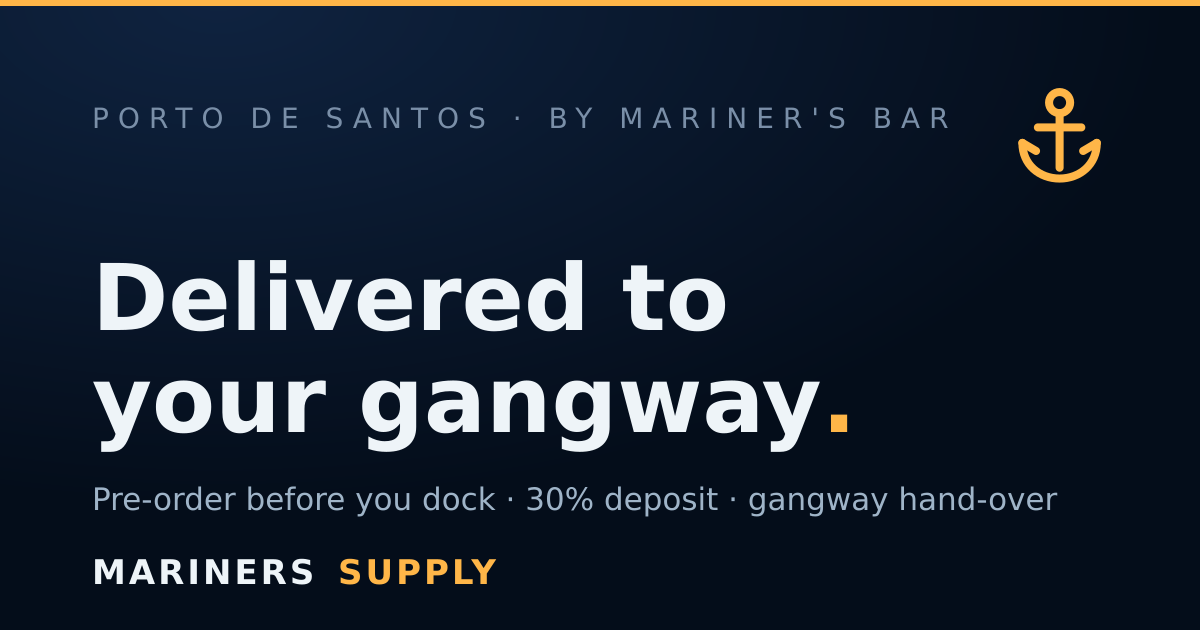
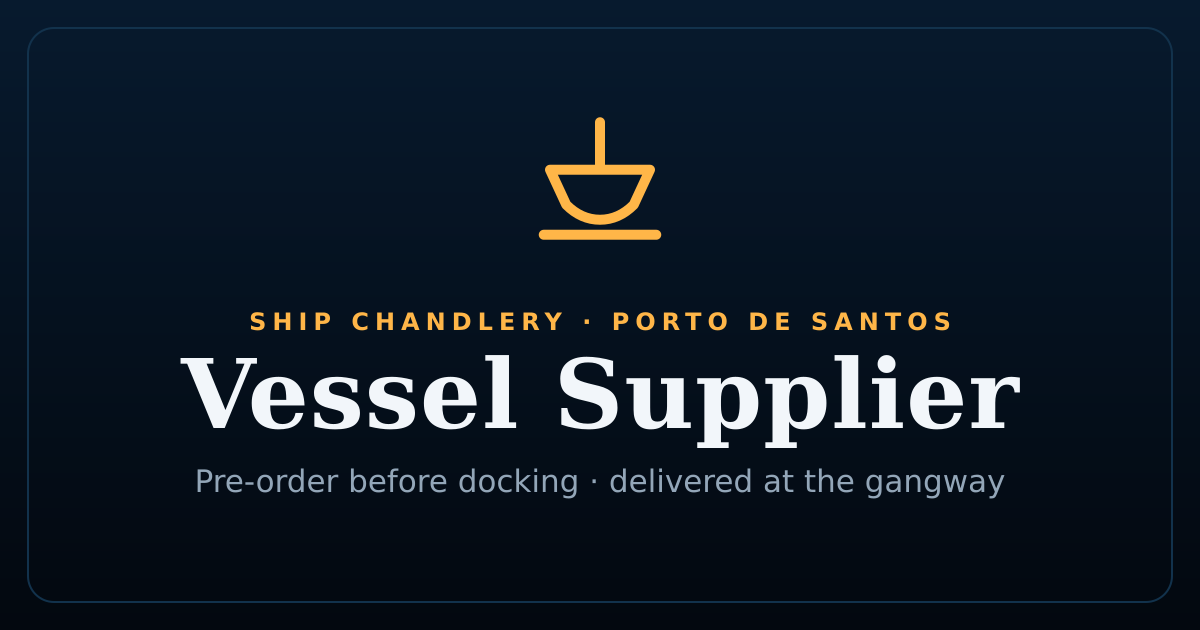
rebrand: Mariners Supply -> Vessel Supplier (marca, icone, OG, e-mails)
Renomeia a marca em toda a superficie visivel do app e troca o simbolo.

Texto/marca:
- Logo (SiteHeader/CategoryDrawer/TopBar/SiteFooter), titulo e metadata
  (layout, manifest, twitter/OG), e-mails transacionais (lib/emails), FAQ,
  termos, privacidade, portos, taxregime, templates de auth do Supabase.
- Remove todas as mencoes a "Mariner's Bar": entidade controladora/operadora
  passa a ser a propria Vessel Supplier; retirada de balcao vira "our counter
  in Santos"; taglines de rodape/e-mail perdem o "by Mariner's Bar".

Icone/visual:
- Novo simbolo da marca: vessel (mastro, casco e linha d'agua) no lugar da
  ancora, na mesma linguagem de traco e paleta navy/amber. Aplicado ao
  IconAnchor (logo on-page), favicon (app/icon.svg), apple-icon e um cartao
  OG (public/og.png) 1200x630 regerado com o nome novo.

URLs:
- NEXT_PUBLIC_SITE_URL -> https://vesselsupplier.vercel.app; metadataBase e
  URLs do README idem. Mantidos por serem infra: dominio de auth do Supabase
  (auth.marinerssupplyco.com) e o mailbox de contato (ahoy@marinerssupplyco.com).

Testes 224 (0 falhas) e next build passam.

Claude-Session: https://claude.ai/code/session_014MYs7gn3q6QqatAh2M38UT

diff --git a/prototype/estrategia-sistema.html b/prototype/estrategia-sistema.html
@@ -106,13 +106,13 @@
 <section>
   <span class="secnum">01</span>
   <h2>O sistema contentor: onde o negócio vive</h2>
-  <p>Ackoff ensina a entender qualquer coisa olhando primeiro o sistema <em>maior</em> que a contém. O Mariners Supply não vende produtos: ele ocupa uma posição vazia na malha de interações do porto — a interface entre a cidade e o tripulante. Cada ator abaixo já existe; nenhum deles faz essa ponte.</p>
+  <p>Ackoff ensina a entender qualquer coisa olhando primeiro o sistema <em>maior</em> que a contém. O Vessel Supplier não vende produtos: ele ocupa uma posição vazia na malha de interações do porto — a interface entre a cidade e o tripulante. Cada ator abaixo já existe; nenhum deles faz essa ponte.</p>
   <div class="eco">
     <div class="node"><h4>Tripulante</h4><p>Tem dólar e desejo, não tem tempo nem acesso à cidade.</p><span class="fl">→ nos dá: pedido, pagamento, boca-a-boca</span></div>
     <div class="node"><h4>Navio / Comandante</h4><p>Controla quem sobe a bordo e o que entra pela prancha.</p><span class="fl">→ nos dá: autorização de entrega</span></div>
     <div class="node"><h4>Agência marítima</h4><p>Sabe o ETA real, o berço e o line-up antes de todo mundo.</p><span class="fl">→ nos dá: informação + acesso · ← comissão</span></div>
     <div class="node"><h4>Mariner's Bar</h4><p>A comunidade. Confiança acumulada tripulação a tripulação.</p><span class="fl">→ nos dá: marca, canal, demanda</span></div>
-    <div class="node center"><h4>Mariners Supply</h4><p>A interação que falta: cidade ⇄ navio, na janela da escala, 100% formal.</p></div>
+    <div class="node center"><h4>Vessel Supplier</h4><p>A interação que falta: cidade ⇄ navio, na janela da escala, 100% formal.</p></div>
     <div class="node"><h4>Fornecedores locais</h4><p>Atacado, farmácia, eletrônica, telecom — estoque da cidade.</p><span class="fl">→ nos dão: produto, NF, prazo</span></div>
     <div class="node"><h4>Terminal / Aut. Portuária</h4><p>Controla o portão e o credenciamento ISPS.</p><span class="fl">→ nos dá: acesso físico (fase 2)</span></div>
     <div class="node"><h4>Receita Federal</h4><p>Controla a zona primária e o regime de bordo.</p><span class="fl">→ nos dá: a licença que vira barreira</span></div>

diff --git a/app/terms/page.tsx b/app/terms/page.tsx
@@ -7,7 +7,7 @@ import { DEPOSIT_PCT } from "@/lib/money";
 export const metadata: Metadata = {
   title: "Terms & Conditions",
   description:
-    "How an order with Mariners Supply works — deposit, balance at the gangway, cancellation rights and credit for a diverted call.",
+    "How an order with Vessel Supplier works — deposit, balance at the gangway, cancellation rights and credit for a diverted call.",
 };
 
 /** Data da última revisão do texto. Termo sem data é termo que ninguém
@@ -49,15 +49,15 @@ export default function TermsPage() {
 
       <h1 className="pagettl">Terms &amp; Conditions</h1>
       <p className="pagelead">
-        Last updated {LAST_UPDATED}. These terms govern orders placed on
-        marinerssupplyco.com.
+        Last updated {LAST_UPDATED}. These terms govern orders placed with
+        Vessel Supplier.
       </p>
 
       <section className="pdp-block">
         <h3>1 · Who you are contracting with</h3>
         <p className="pdp-text">
-          Mariners Supply is the online store operated by Mariner&apos;s Bar, at
-          Porto de Santos, São Paulo, Brazil. Orders are handled by the same
+          Vessel Supplier is the online store at Porto de Santos, São Paulo,
+          Brazil. Orders are handled by the same
           people who run the counter — there is no marketplace between us and
           you.
         </p>
@@ -77,7 +77,7 @@ export default function TermsPage() {
           </li>
           <li>
             On-board delivery is for crew serving on a vessel calling at a port
-            we list. Counter pickup at Mariner&apos;s Bar is open to anyone who
+            we list. Counter pickup in Santos is open to anyone who
             can collect in person.
           </li>
           <li>
@@ -304,7 +304,7 @@ export default function TermsPage() {
           <a className="alink" href={`mailto:${CONTACT_EMAIL}`}>
             {CONTACT_EMAIL}
           </a>{" "}
-          · Mariner&apos;s Bar, Porto de Santos, São Paulo, Brazil. See also the{" "}
+          · Vessel Supplier, Porto de Santos, São Paulo, Brazil. See also the{" "}
           <Link className="alink" href="/faq">
             FAQ
           </Link>

diff --git a/lib/emails.ts b/lib/emails.ts
@@ -122,7 +122,7 @@ function shell(opts: {
     <table role="presentation" width="100%" cellpadding="0" cellspacing="0" border="0" style="max-width:520px;font-family:${FONT}">
 
       <tr><td style="padding:0 4px 16px">
-        <span style="color:${C.amber};font-size:11px;letter-spacing:2.4px;font-weight:700">⚓ MARINERS SUPPLY</span>
+        <span style="color:${C.amber};font-size:11px;letter-spacing:2.4px;font-weight:700">⚓ VESSEL SUPPLIER</span>
         <span style="color:${C.faint};font-size:11px;letter-spacing:1.4px"> · SANTOS</span>
       </td></tr>
 
@@ -145,7 +145,7 @@ function shell(opts: {
       </td></tr>
 
       <tr><td style="padding:18px 6px 0;color:${C.faint};font-size:12px;line-height:1.6">
-        Mariners Supply — by Mariner's Bar, Porto de Santos.<br>
+        Vessel Supplier — Porto de Santos.<br>
         Questions? Just reply to this e-mail.
         <a href="${opts.siteUrl}" style="color:${C.faint}">${esc(
           opts.siteUrl.replace(/^https?:\/\//, "")
@@ -293,7 +293,7 @@ export function buildOrderEmail(d: OrderEmailData, siteUrl: string): BuiltEmail 
         ``,
         `Track your order: ${href}`,
         ``,
-        `Mariners Supply — by Mariner's Bar, Porto de Santos.`,
+        `Vessel Supplier — Porto de Santos.`,
       ]
         .filter(Boolean)
         .join("\n"),
@@ -332,7 +332,7 @@ export function buildOrderEmail(d: OrderEmailData, siteUrl: string): BuiltEmail 
         `Show this code at the gangway: #${d.code}`,
         `Open order: ${href}`,
         ``,
-        `Mariners Supply — by Mariner's Bar, Porto de Santos.`,
+        `Vessel Supplier — Porto de Santos.`,
       ]
         .filter(Boolean)
         .join("\n"),
@@ -450,7 +450,7 @@ export function buildOrderEmail(d: OrderEmailData, siteUrl: string): BuiltEmail 
       `Order: ${href}`,
       `Captains earn: share your code with the next crew and get credit on their first order.`,
       ``,
-      `Mariners Supply — by Mariner's Bar, Porto de Santos.`,
+      `Vessel Supplier — Porto de Santos.`,
     ]
       .filter(Boolean)
       .join("\n"),

diff --git a/prototype/brand-system.html b/prototype/brand-system.html
@@ -1,5 +1,5 @@
 <meta charset="utf-8">
-<title>Mariners Supply Co.</title>
+<title>Vessel Supplier Co.</title>
 <meta name="viewport" content="width=device-width, initial-scale=1">
 <style>
   /* ============ TOKENS ============ */
@@ -296,7 +296,7 @@
   <div class="beam"></div>
   <div class="wrap hero-inner">
     <p class="eyebrow">Sistema de produto &amp; marca · v1 · Porto de Santos</p>
-    <h1 class="wordmark">Mariners Supply <span class="amp">Co.</span></h1>
+    <h1 class="wordmark">Vessel Supplier <span class="amp">Co.</span></h1>
     <p class="tagline">// Entregue na prancha de embarque · Santos–Guarujá</p>
     <p class="thesis">A loja do marítimo que <b>não tem tempo de descer</b>. Pedido antes de atracar, entrega na escada do navio, pagamento internacional no cartão. Sem táxi, sem fila, sem sair do convés.</p>
   </div>
@@ -428,7 +428,7 @@
     <div class="names">
       <div class="name lead">
         <span class="badge">Recomendado</span>
-        <div class="n">Mariners Supply Co.</div>
+        <div class="n">Vessel Supplier Co.</div>
         <div class="tt">"Supply" evoca o ship chandler clássico e o ato de provisionar. Funciona em inglês (a tripulação) e no Brasil.</div>
       </div>
       <div class="name">
@@ -464,7 +464,7 @@
   <div class="ds-block">
     <p class="ds-label">Tipografia — 3 papéis</p>
     <div class="type-spec">
-      <div><span class="t-display">Mariners Supply Co.</span><small>Display · 800 · uppercase · +tracking</small></div>
+      <div><span class="t-display">Vessel Supplier Co.</span><small>Display · 800 · uppercase · +tracking</small></div>
       <div><span class="t-h2">Entrega na prancha de embarque</span><small>Título · 750</small></div>
       <div><span class="t-body">Corpo de texto humanista, legível em telas pequenas e sob luz do convés.</span><small>Corpo · 400</small></div>
       <div><span class="t-mono">ETA 14:20 · BERÇO 39 · USD 84.00 · #MSC-2291</span><small>Mono · dado de bordo</small></div>

diff --git a/app/layout.tsx b/app/layout.tsx
@@ -8,32 +8,32 @@ import SiteChrome from "@/components/SiteChrome";
 import SiteFooter from "@/components/SiteFooter";
 
 export const metadata: Metadata = {
-  metadataBase: new URL(process.env.NEXT_PUBLIC_SITE_URL ?? "https://mariners-supply.vercel.app"),
+  metadataBase: new URL(process.env.NEXT_PUBLIC_SITE_URL ?? "https://vesselsupplier.vercel.app"),
   title: {
-    default: "Mariners Supply",
-    template: "%s · Mariners Supply",
+    default: "Vessel Supplier",
+    template: "%s · Vessel Supplier",
   },
   description:
-    "Pre-order supplies before docking — delivered at the gangway. Porto de Santos, by Mariner's Bar.",
+    "Pre-order supplies before docking — delivered at the gangway. Porto de Santos.",
   openGraph: {
-    siteName: "Mariners Supply",
-    title: "Mariners Supply — gangway delivery at Porto de Santos",
+    siteName: "Vessel Supplier",
+    title: "Vessel Supplier — gangway delivery at Porto de Santos",
     description:
       "Your order rides with your vessel's ETA. Pre-order before docking, pay a 30% deposit, receive at the gangway.",
     type: "website",
     // O cartão que o WhatsApp mostra. O link do Captain viaja colado em
     // grupo de tripulação, e link sem imagem lê como link suspeito —
     // justamente no canal que é o programa inteiro de indicação.
-    images: [{ url: "/og.png", width: 1200, height: 630, alt: "Mariners Supply — delivered to your gangway at Porto de Santos" }],
+    images: [{ url: "/og.png", width: 1200, height: 630, alt: "Vessel Supplier — delivered to your gangway at Porto de Santos" }],
   },
   twitter: {
     card: "summary_large_image",
-    title: "Mariners Supply — gangway delivery at Porto de Santos",
+    title: "Vessel Supplier — gangway delivery at Porto de Santos",
     images: ["/og.png"],
   },
   appleWebApp: {
     capable: true,
-    title: "Mariners",
+    title: "Vessel",
     statusBarStyle: "black-translucent",
   },
 };

diff --git a/app/globals.css b/app/globals.css
@@ -1,5 +1,5 @@
 /* ============================================================
-   MARINERS SUPPLY — "Hull & Chart" design system (app real)
+   VESSEL SUPPLIER — "Hull & Chart" design system (app real)
    Portado do protótipo (prototype/app.html) com as correções
    de viewport mobile:
 
@@ -1154,7 +1154,7 @@ input:-webkit-autofill:focus {
 /* Logotipo compacto, em duas linhas.
    A conta que obriga: para o centro ser simétrico, cada lateral
    precisa caber os três ícones (120px). Isso deixa 118px para a
-   marca, e "Mariners Supply" numa linha ocupa 136px — não cabe sem
+   marca, e "Vessel Supplier" numa linha ocupa 136px — não cabe sem
    colidir com o ícone de conta, que era o que acontecia. Empilhado,
    o conjunto ocupa ~88px, fica centrado de verdade e ainda lê como
    logotipo em vez de mais um rótulo entre ícones. */
@@ -1174,7 +1174,7 @@ input:-webkit-autofill:focus {
 
    A conta do espaço em 390px: 40 do hambúrguer + 120 dos três ícones +
    32 de padding + 16 de folga = 208 usados, sobram 182 para a marca. Em
-   15px com esta entreletra, "MARINERS SUPPLY" mede cerca de 150 com a
+   15px com esta entreletra, "VESSEL SUPPLIER" mede cerca de 150 com a
    âncora — cabe com sobra, numa linha só. */
 .sunlogo .word {
   display: flex; flex-direction: row; align-items: baseline; gap: .34em;

diff --git a/components/SiteFooter.tsx b/components/SiteFooter.tsx
@@ -128,11 +128,10 @@ export default function SiteFooter() {
           acordeão continua exatamente como está — ele foi validado. */}
       <div className="sunfoot-brand">
         <p className="bl">
-          Mariners <b>Supply</b>
+          Vessel <b>Supplier</b>
         </p>
         <p>
-          Pre-order before docking. 30% deposit now, the rest at the gangway. Porto de Santos, by
-          Mariner&apos;s Bar.
+          Pre-order before docking. 30% deposit now, the rest at the gangway. Porto de Santos.
         </p>
         <Link href={`mailto:${CONTACT_EMAIL}`}>{CONTACT_EMAIL}</Link>
       </div>
@@ -157,7 +156,7 @@ export default function SiteFooter() {
       <SelosPagamento />
 
       <div className="sunfoot-legal">
-        © {new Date().getFullYear()} Mariners Supply — by Mariner&apos;s Bar, Porto de Santos.
+        © {new Date().getFullYear()} Vessel Supplier — Porto de Santos.
         <br />
         <Link href="/terms">Terms &amp; Conditions</Link> ·{" "}
         <Link href="/privacy">Privacy Policy</Link> ·{" "}

diff --git a/app/privacy/page.tsx b/app/privacy/page.tsx
@@ -6,7 +6,7 @@ import { CONTACT_EMAIL } from "@/lib/env";
 export const metadata: Metadata = {
   title: "Privacy Policy",
   description:
-    "What Mariners Supply collects, why customs requires it, who processes it, and how to exercise your rights under Brazil's LGPD.",
+    "What Vessel Supplier collects, why customs requires it, who processes it, and how to exercise your rights under Brazil's LGPD.",
 };
 
 const LAST_UPDATED = "26 August 2026";
@@ -52,8 +52,8 @@ export default function PrivacyPage() {
       <section className="pdp-block">
         <h3>1 · Who controls your data</h3>
         <p className="pdp-text">
-          Mariner&apos;s Bar, at Porto de Santos, São Paulo, Brazil, trading as
-          Mariners Supply, is the controller. Contact for anything on this page:{" "}
+          Vessel Supplier, at Porto de Santos, São Paulo, Brazil, is the
+          controller. Contact for anything on this page:{" "}
           <a className="alink" href={`mailto:${CONTACT_EMAIL}`}>
             {CONTACT_EMAIL}
           </a>

diff --git a/components/SiteHeader.tsx b/components/SiteHeader.tsx
@@ -90,14 +90,14 @@ export default function SiteHeader({
           </button>
 
           {/* O nome acessível precisa CONTER o texto visível (WCAG 2.5.3).
-              Os dois spans colavam em "MarinersSupply" — sem o espaço, e
+              Os dois spans colavam em "VesselSupplier" — sem o espaço, e
               com o travessão no aria-label, nada batia: quem usa comando
-              de voz dizia "clicar Mariners Supply" e não achava o link. */}
-          <Link href="/" className="sunlogo" aria-label="Mariners Supply home">
+              de voz dizia "clicar Vessel Supplier" e não achava o link. */}
+          <Link href="/" className="sunlogo" aria-label="Vessel Supplier home">
             <IconAnchor className="mark" />
             <span className="word">
-              <span className="l1">Mariners</span>{" "}
-              <span className="l2">Supply</span>
+              <span className="l1">Vessel</span>{" "}
+              <span className="l2">Supplier</span>
             </span>
           </Link>
 

diff --git a/components/ShareCode.tsx b/components/ShareCode.tsx
@@ -18,7 +18,7 @@ export default function ShareCode({ code, link }: { code: string; link: string }
      do texto, ou a mensagem chega sem ele. Daí a frase seca para um
      lado e a frase com link para o outro. */
   const frase =
-    `Order from Mariners Supply with my code ${code} — delivered at the gangway ` +
+    `Order from Vessel Supplier with my code ${code} — delivered at the gangway ` +
     `in Santos.`;
   const comLink = `${frase} ${link}`;
 
@@ -26,7 +26,7 @@ export default function ShareCode({ code, link }: { code: string; link: string }
     // Web Share abre o WhatsApp direto no celular; no desktop cai no copiar.
     if (navigator.share) {
       try {
-        await navigator.share({ title: "Mariners Supply", text: frase, url: link });
+        await navigator.share({ title: "Vessel Supplier", text: frase, url: link });
         return;
       } catch (e) {
         /* Desistir NÃO é falhar. O catch pegava os dois casos e seguia

diff --git a/app/admin/layout.tsx b/app/admin/layout.tsx
@@ -11,7 +11,7 @@ export default async function AdminLayout({ children }: { children: React.ReactN
   if (!supabaseConfigured) {
     return (
       <>
-        <TopBar title="Mariners Ops" backHref="/" chip={false} />
+        <TopBar title="Vessel Ops" backHref="/" chip={false} />
         <main className="stack" style={{ paddingTop: 20 }}>
           <p className="alert">Backend not configured yet — see README to provision Supabase.</p>
         </main>
@@ -64,7 +64,7 @@ export default async function AdminLayout({ children }: { children: React.ReactN
     <>
       {/* marcador p/ o CSS alargar o shell do painel em telas grandes */}
       <span className="admin-wide" hidden />
-      <TopBar title="Mariners Ops" backHref="/" chip={false} />
+      <TopBar title="Vessel Ops" backHref="/" chip={false} />
       <AdminTabs />
       {children}
     </>

diff --git a/components/CategoryDrawer.tsx b/components/CategoryDrawer.tsx
@@ -94,11 +94,11 @@ export default function CategoryDrawer({
         aria-label={title ? `${title} categories` : "Categories"}
       >
         <div className="drawer-top">
-          <Link href="/" className="sunlogo" onClick={onClose} aria-label="Mariners Supply — home">
+          <Link href="/" className="sunlogo" onClick={onClose} aria-label="Vessel Supplier — home">
             <IconAnchor className="mark" />
             <span className="word">
-              <span className="l1">Mariners</span>
-              <span className="l2">Supply</span>
+              <span className="l1">Vessel</span>
+              <span className="l2">Supplier</span>
             </span>
           </Link>
           <button className="drawer-x" onClick={onClose} aria-label="Close">
